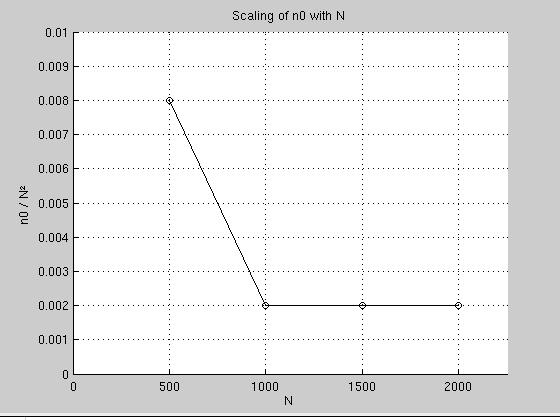
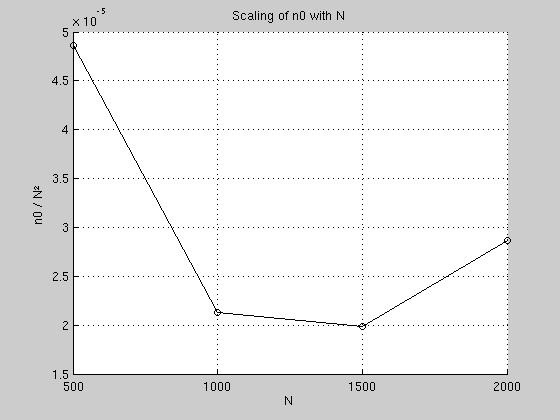
finished with the plots for today

diff --git a/Project5/Project5.cpp b/Project5/Project5.cpp
@@ -223,23 +223,37 @@ int _tmain(int argc, _TCHAR* argv[])
 	const bool USE_EULER = false; // use Euler-Cromer method
 	const bool DEBUG = false; // for debugging only
 	const bool BENCHMARK = false; // To test against the project 3 code
+	const bool REDO_CURVEFIT = true; // see below
 	#pragma endregion
+
+	if (REDO_CURVEFIT)
+	{
+		// it may not look like much, but this snippet of code allows us to re-do the curve fit
+		// without repeating a 12-hour simulation.
+		for (int i = 0; i < 4; i++)
+		{
+			ostringstream inputfile;
+			// add absolute path below. remember: \\ is backslash!
+			inputfile << "radial_after_" << i << "_leapfrog.dat";
+			mat radial;
+			bool ok = radial.load(inputfile.str(), auto_detect);
+
+			if (ok == true)
+			{
+				ostringstream newfile;
+				newfile << "recovery_" << i << ".dat";
+				vec testFit = radialDistFitLSq(radial, ((i+1)*500), N_NR);
+				testFit.save(newfile.str(), raw_ascii);
+			}
+			else
+			{
+				// error message from armadillo will appear ("can't open" means file not found)
+			}
+		}
+	}
 
 	if (!BENCHMARK)
 	{
-		// very cheesy, remove later :P
-		mat radial;
-		bool status = radial.load("C:\\Users\\OddPetter\\Dropbox\\Studier\\comp phys\\projects\\Project5\\Project5\\input.dat", auto_detect);
-		if (status == true)
-		{
-			vec testFit = radialDistFitLSq(radial, 2000, N_NR);
-			testFit.save("2000recovery.dat", raw_ascii);
-		}
-		else
-		{
-			// error message
-		}
-
 		#pragma region Initialize Series
 
 		int deltaN = 0;

diff --git a/Project5/CURVEFIT/PlotStuff4.m b/Project5/CURVEFIT/PlotStuff4.m
@@ -1,0 +1,47 @@
+fileLeap = strcat('plotLeapfrog.dat');
+fidLeap = fopen(fileLeap);
+Plot_File = fscanf(fidLeap,'%g',[18 4]).';
+fclose(fidLeap);
+
+simID = 3;
+nbParticles = 2000;
+nbSteps = 67;
+fileRad = strcat('radial_after_',num2str(simID),'_leapfrog.dat');
+fidRad = fopen(fileRad);
+Rad_File = fscanf(fidRad,'%g',[3 nbSteps]).';
+fclose(fidRad);
+
+bWantToSaveJPEG = true;
+filename = strcat('radial',num2str(nbParticles),'.jpeg');
+
+% r as a vector
+r = [1 (nbSteps)];
+for i = 1: (nbSteps)
+    r(i) = Rad_File(i,1);
+end
+
+% Init of the vector holding the number of bound particles
+nHist = [1 (nbSteps)];
+for i = 1: (nbSteps)
+    nHist(i) = Rad_File(i,2);
+end
+
+% And then we plot !
+figure(3);
+%hold on;
+plot(r(:),nHist(:),'o','linestyle','-','color','b');
+%hold off;
+sTitle = strcat('Radial distribution of particles: N = ',num2str(nbParticles));
+title(sTitle);
+xlabel('r (ly)');
+ylabel('N');
+%axis([0, 0.16, -0.2, 1]);
+grid on;
+
+% And eventually save the plot
+if (bWantToSaveJPEG == true)  
+    frame = getframe(3);
+    im = frame2im(frame);
+    [A,map] = rgb2ind(im,256); % To avoid 3D pictures
+    imwrite(A,map,filename,'jpeg'); 
+end    

diff --git a/Project5/CURVEFIT/PlotStuff.m b/Project5/CURVEFIT/PlotStuff.m
@@ -5,7 +5,7 @@ fclose(fidLeap);
 
 simID = 3;
 nbParticles = 2000;
-nbSteps = 67;
+nbSteps = 67; % 18 35 53 67
 fileRad = strcat('radial_after_',num2str(simID),'_leapfrog.dat');
 fidRad = fopen(fileRad);
 Rad_File = fscanf(fidRad,'%g',[3 nbSteps]).';
@@ -23,8 +23,8 @@ for i = 1: (nbSteps)
     rN13(i) = r(i) / (nbParticles^(-1/3));
 end
 
-n0 = Plot_File(4,12);
-r0 = Plot_File(4,13);
+n0 = Plot_File(simID+1,12);
+r0 = Plot_File(simID+1,13);
 
 n = [1 (nbSteps)];
 nN2 = [1 (nbSteps)];

diff --git a/Project5/CURVEFIT/PlotStuff2.m b/Project5/CURVEFIT/PlotStuff2.m
@@ -32,7 +32,7 @@ hold off;
 title('Scaling of n0 with N');
 xlabel('N');
 ylabel('n0 / N²');
-axis([0, 2250, 0, 0.01]);
+%axis([0, 2250, 0, 0.01]);
 grid on;
 
 % And eventually save the plot
@@ -51,7 +51,7 @@ hold off;
 title('Scaling of r0 with N');
 xlabel('N');
 ylabel('r0 / N^(^-^1^/^3^)');
-axis([0, 2250, 0, 1]);
+%axis([0, 2250, 0, 1]);
 grid on;
 
 % And eventually save the plot
